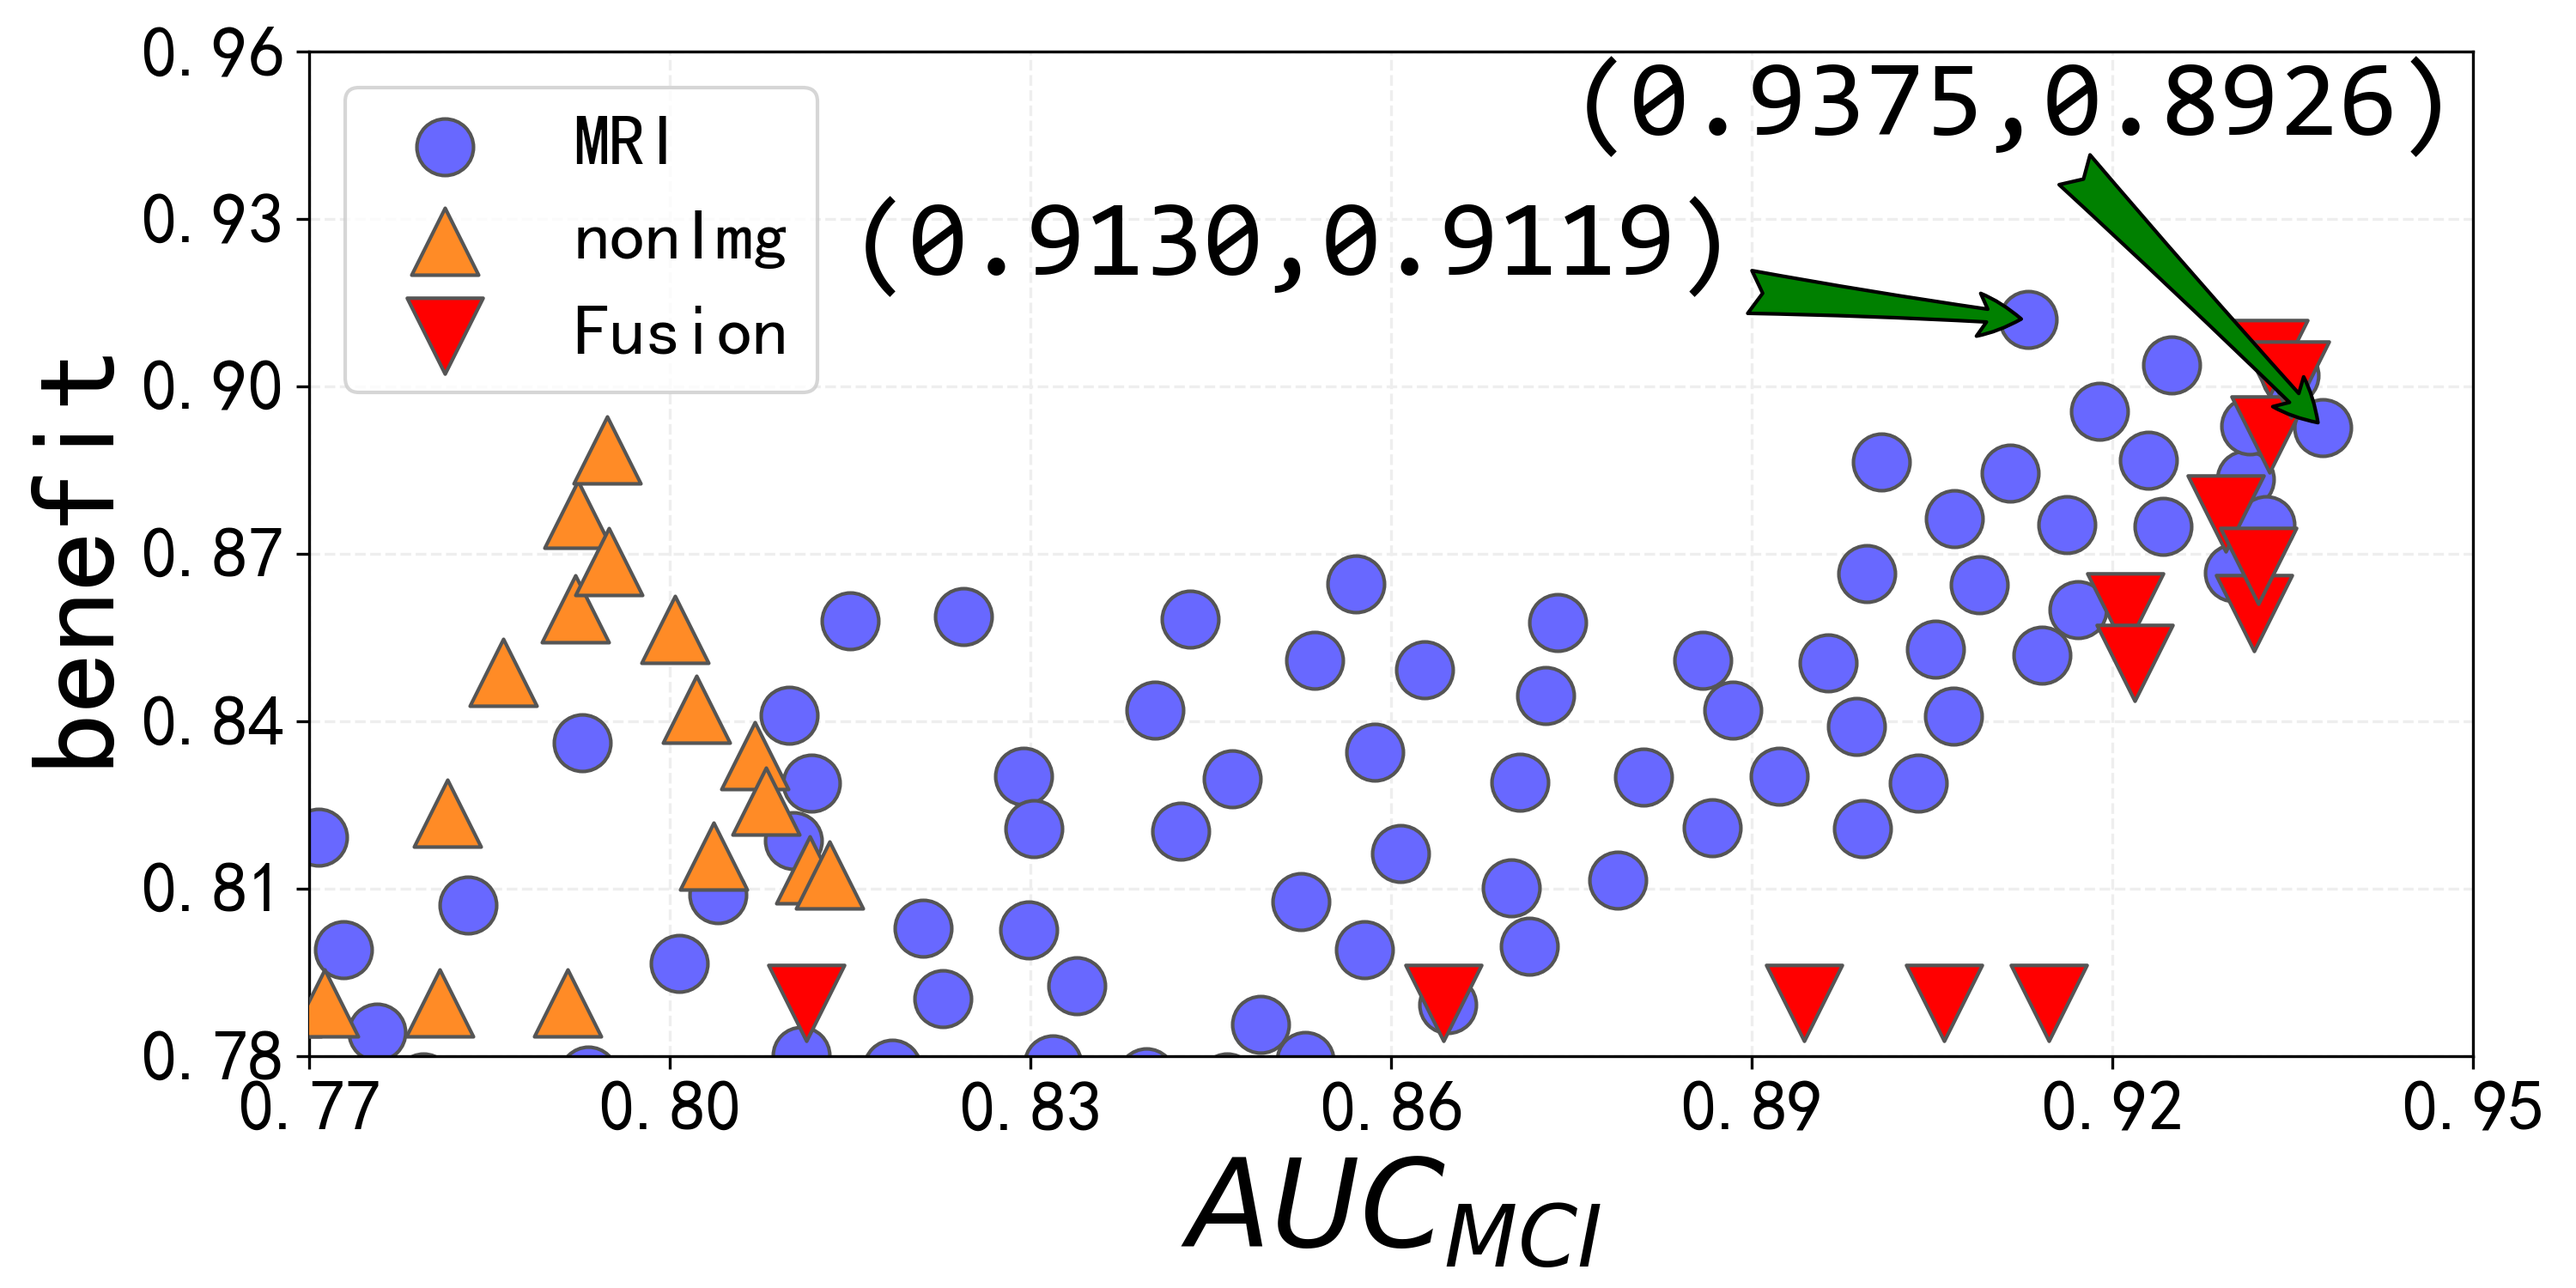
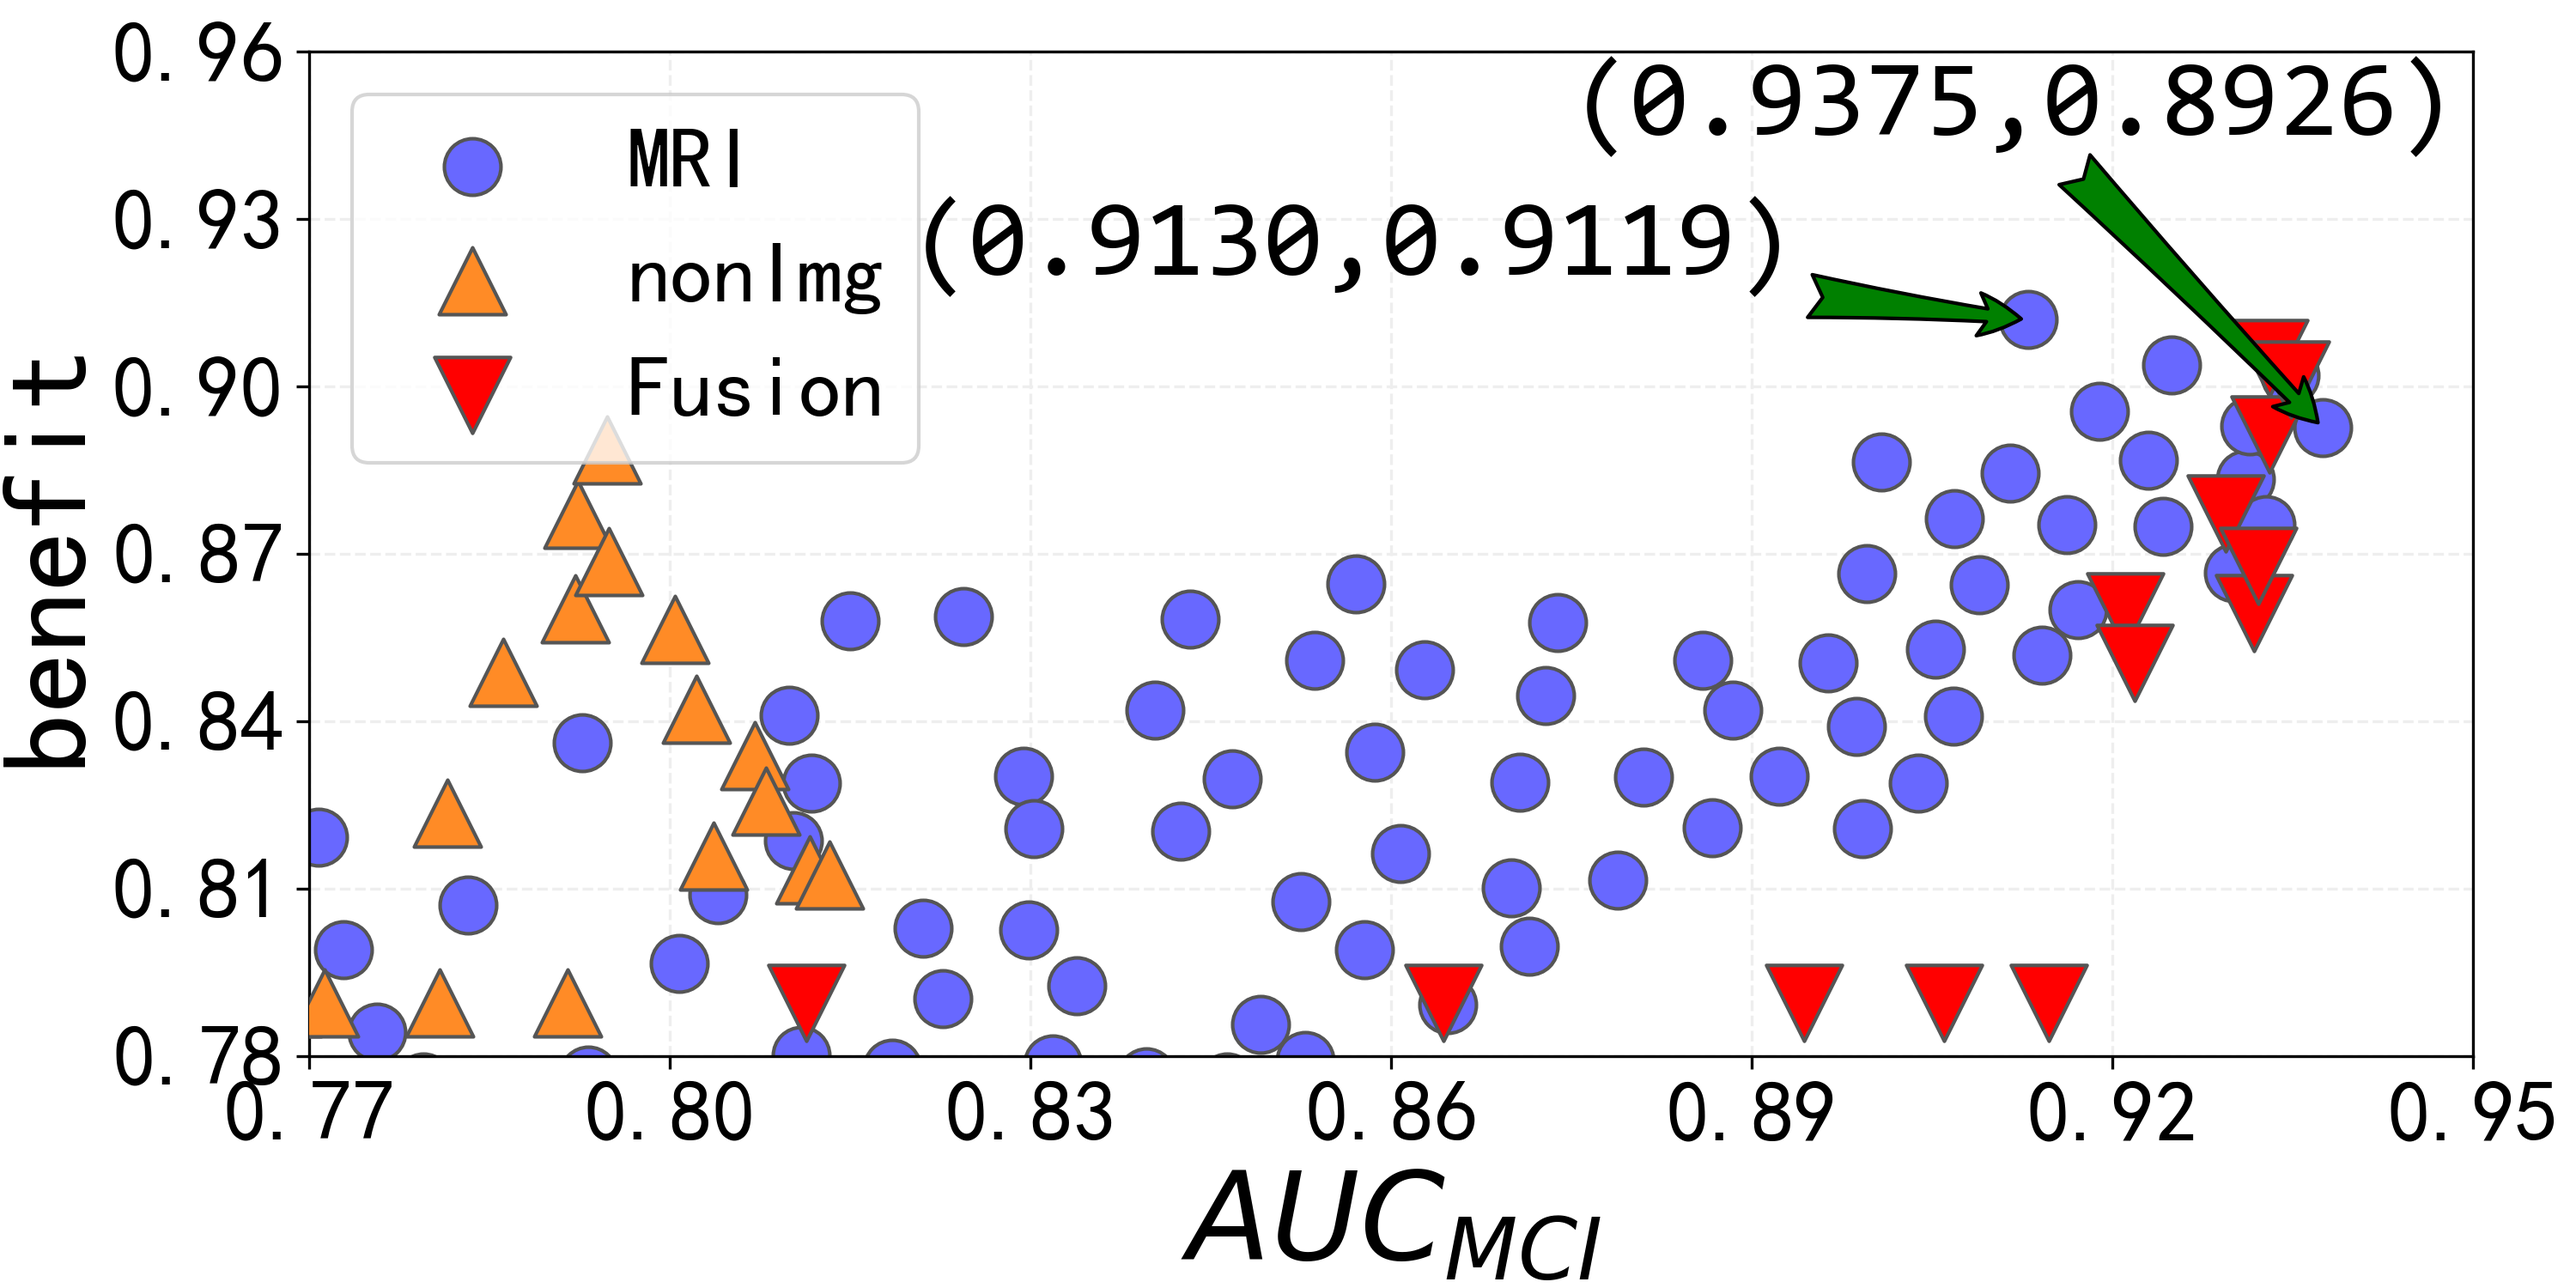
修改图片的刻度字号；写图片的筛选点规则、模型保存点数量差异的原因、benefit计算时的随访间隔

diff --git a/model_eval/draw_graph.py b/model_eval/draw_graph.py
@@ -556,14 +556,14 @@ def draw_all_test_scatter():
     })
     magnify_figure_config = OrderedDict({
         'sensitivity': ('$sensitivity$', (0.67, 0.87), (0.79, 0.99), 'upper left', (0.74, 0.96), (0.74, 0.96), 0.04),
-        'specificity': ('$specificity$', (0.79, 0.94), (0.78, 0.93), 'upper left', (0.83, 0.89), (0.83, 0.915), 0.03),
-        'accuracy': ('$accuracy$', (0.72, 0.9), (0.8, 0.98), 'upper left', (0.82, 0.96), (0.77, 0.92), 0.03),
-        'auc_nc': ('$AUC_{NC}$', (0.84, 1), (0.8, 0.96), 'upper left', (0.93, 0.945), (0.88, 0.93), 0.04),
-        'auc_mci': ('$AUC_{MCI}$', (0.77, 0.95), (0.78, 0.96), 'upper left', (0.875, 0.945), (0.815, 0.92), 0.03),
+        'specificity': ('$specificity$', (0.79, 0.94), (0.78, 0.93), 'upper left', (0.835, 0.89), (0.835, 0.915), 0.03),
+        'accuracy': ('$accuracy$', (0.72, 0.9), (0.8, 0.98), 'upper left', (0.82, 0.96), (0.775, 0.92), 0.03),
+        'auc_nc': ('$AUC_{NC}$', (0.84, 1), (0.8, 0.96), 'upper left', (0.93, 0.945), (0.89, 0.925), 0.04),
+        'auc_mci': ('$AUC_{MCI}$', (0.77, 0.95), (0.78, 0.96), 'upper left', (0.875, 0.945), (0.82, 0.92), 0.03),
         'auc_de': ('$AUC_{DE}$', (0.84, 1.0), (0.78, 0.94), 'upper left', (0.89, 0.895), (0.90, 0.925), 0.04),
-        'ap_nc': ('$AP_{NC}$', (0.78, 0.96), (0.78, 0.96), 'upper left', (0.87, 0.945), (0.825, 0.925), 0.03),
+        'ap_nc': ('$AP_{NC}$', (0.78, 0.96), (0.78, 0.96), 'upper left', (0.88, 0.945), (0.83, 0.925), 0.03),
         'ap_mci': ('$AP_{MCI}$', (0.8, 0.98), (0.78, 0.96), 'upper left', (0.895, 0.925), (0.855, 0.945), 0.03),
-        'ap_de': ('$AP_{DE}$', (0.77, 0.95), (0.78, 0.96), 'upper left', (0.875, 0.925), (0.815, 0.942), 0.03)
+        'ap_de': ('$AP_{DE}$', (0.77, 0.95), (0.78, 0.96), 'upper left', (0.875, 0.92), (0.82, 0.945), 0.03)
     })
 
     for var_name in magnify_figure_config.keys():
@@ -602,7 +602,7 @@ def draw_all_test_scatter():
         ds.set_magnify_y(magnify_y)
         ds.filter_magnify_scatter(filter_thre)
         ds.draw_magnify_scatter(point_size=(250, 350, 450), legend_loc=legend_loc, xlabel=xlabel, ticks_step=ticks_step,
-                                ticks_fontsize=20, label_fontsize=34, legend_fontsize=20,
+                                ticks_fontsize=24, label_fontsize=34, legend_fontsize=24,
                                 adjust_padding={'left': 0.12, 'right': 0.96, 'bottom': 0.18, 'top': 0.96})
         ds.set_text(True, perf_loc, benefit_loc)
         # ds.show(show=False, save_path='C:/Users/330c-001/Desktop/tmp.png')
@@ -700,3 +700,18 @@ if __name__ == '__main__':
     4.画布的四个边是否贴近图片边缘
     """
     draw_all_test_scatter()
+    """
+    在图中展示的散点，是经过了筛选的：
+    由于散点太密集，所以在放大的散点图中，剔除掉了一些点以便观察
+    剔除散点的规则如下：
+    1.对于两个点(x_i, y_i), (x_j, y_j)，若|x_i - x_j| <= thre且|y_i - y_j| <= thre则剔除其中一点，thre取0.08
+    2.对于三个模型的点，横坐标最大及纵坐标最大的点不会被剔除，因为这些点很重要
+    """
+    """
+    三个模型的个数为何不一致(分别有1624、300、100个保存点)
+    MRI是深度学习模型，训练时收敛慢，需要的训练步较多，所以能保存更多模型
+    nonImg和Fusion都是CatBoost模型，训练时收敛很快，所以只能保存较少模型
+    """
+    """
+    benefit的计算中，两次随访间隔在52周内
+    """
